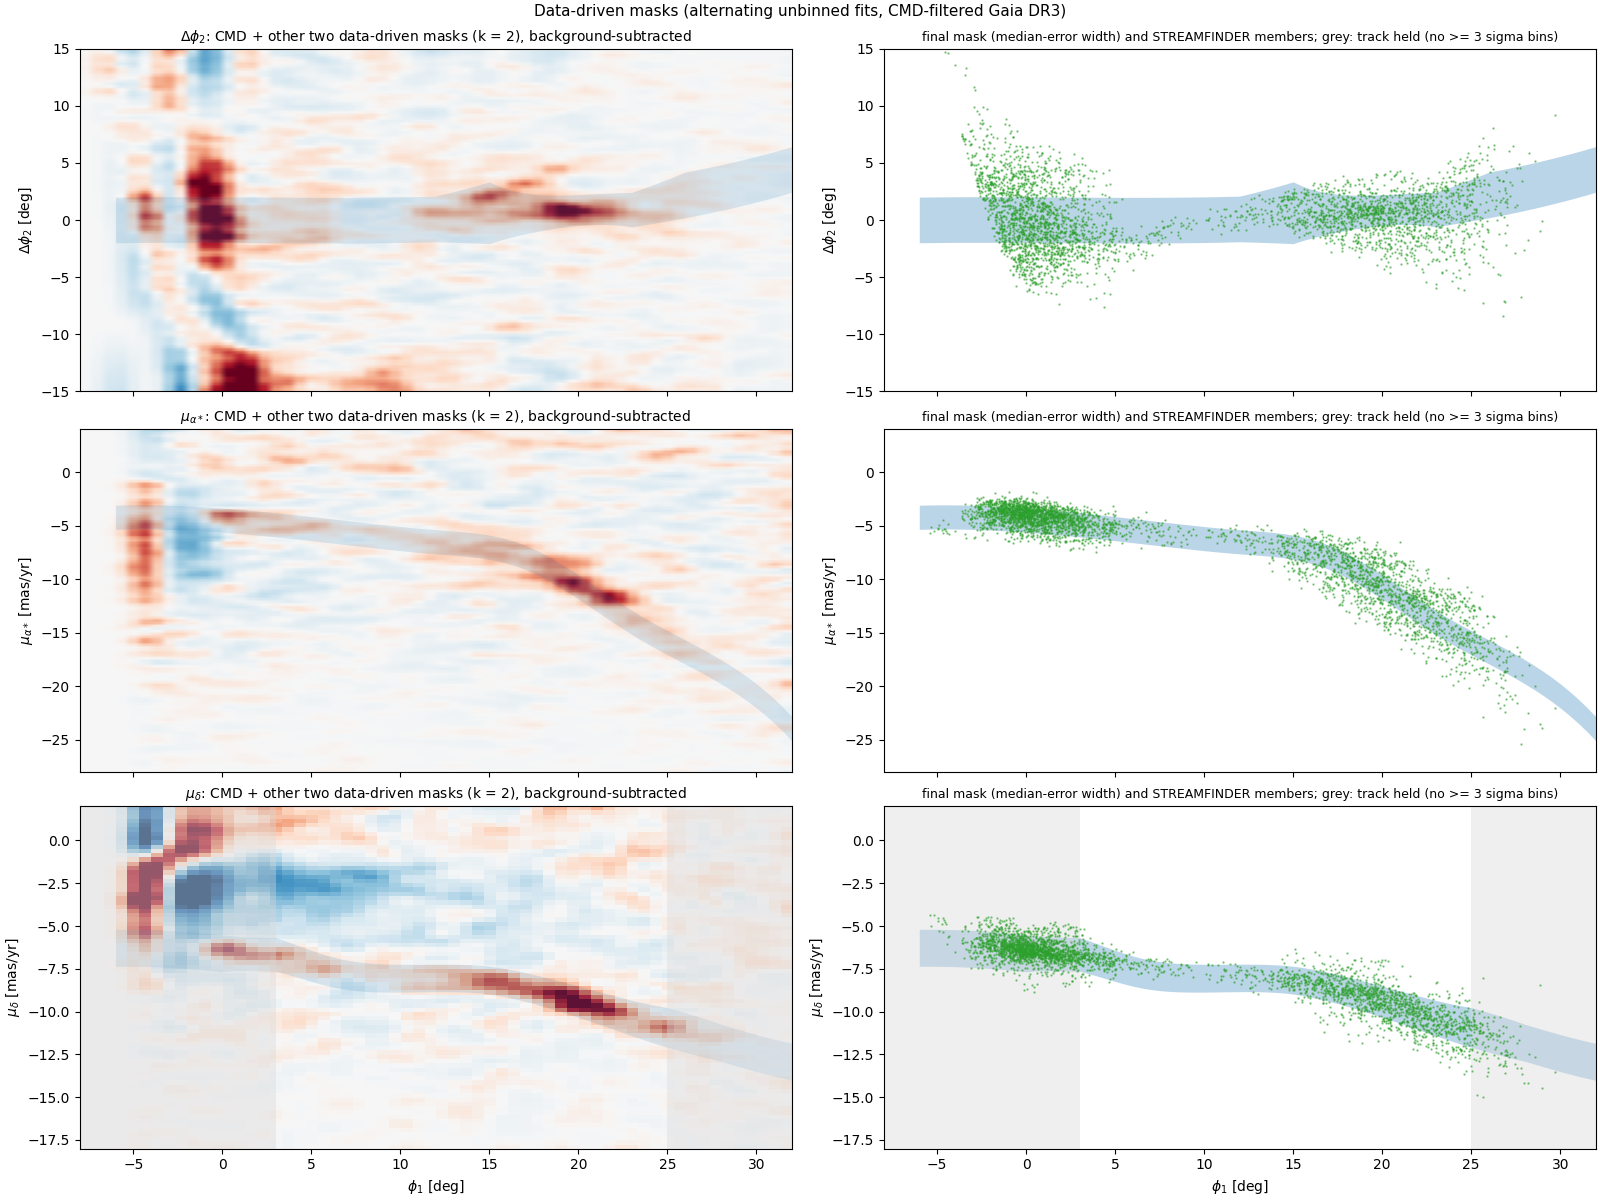
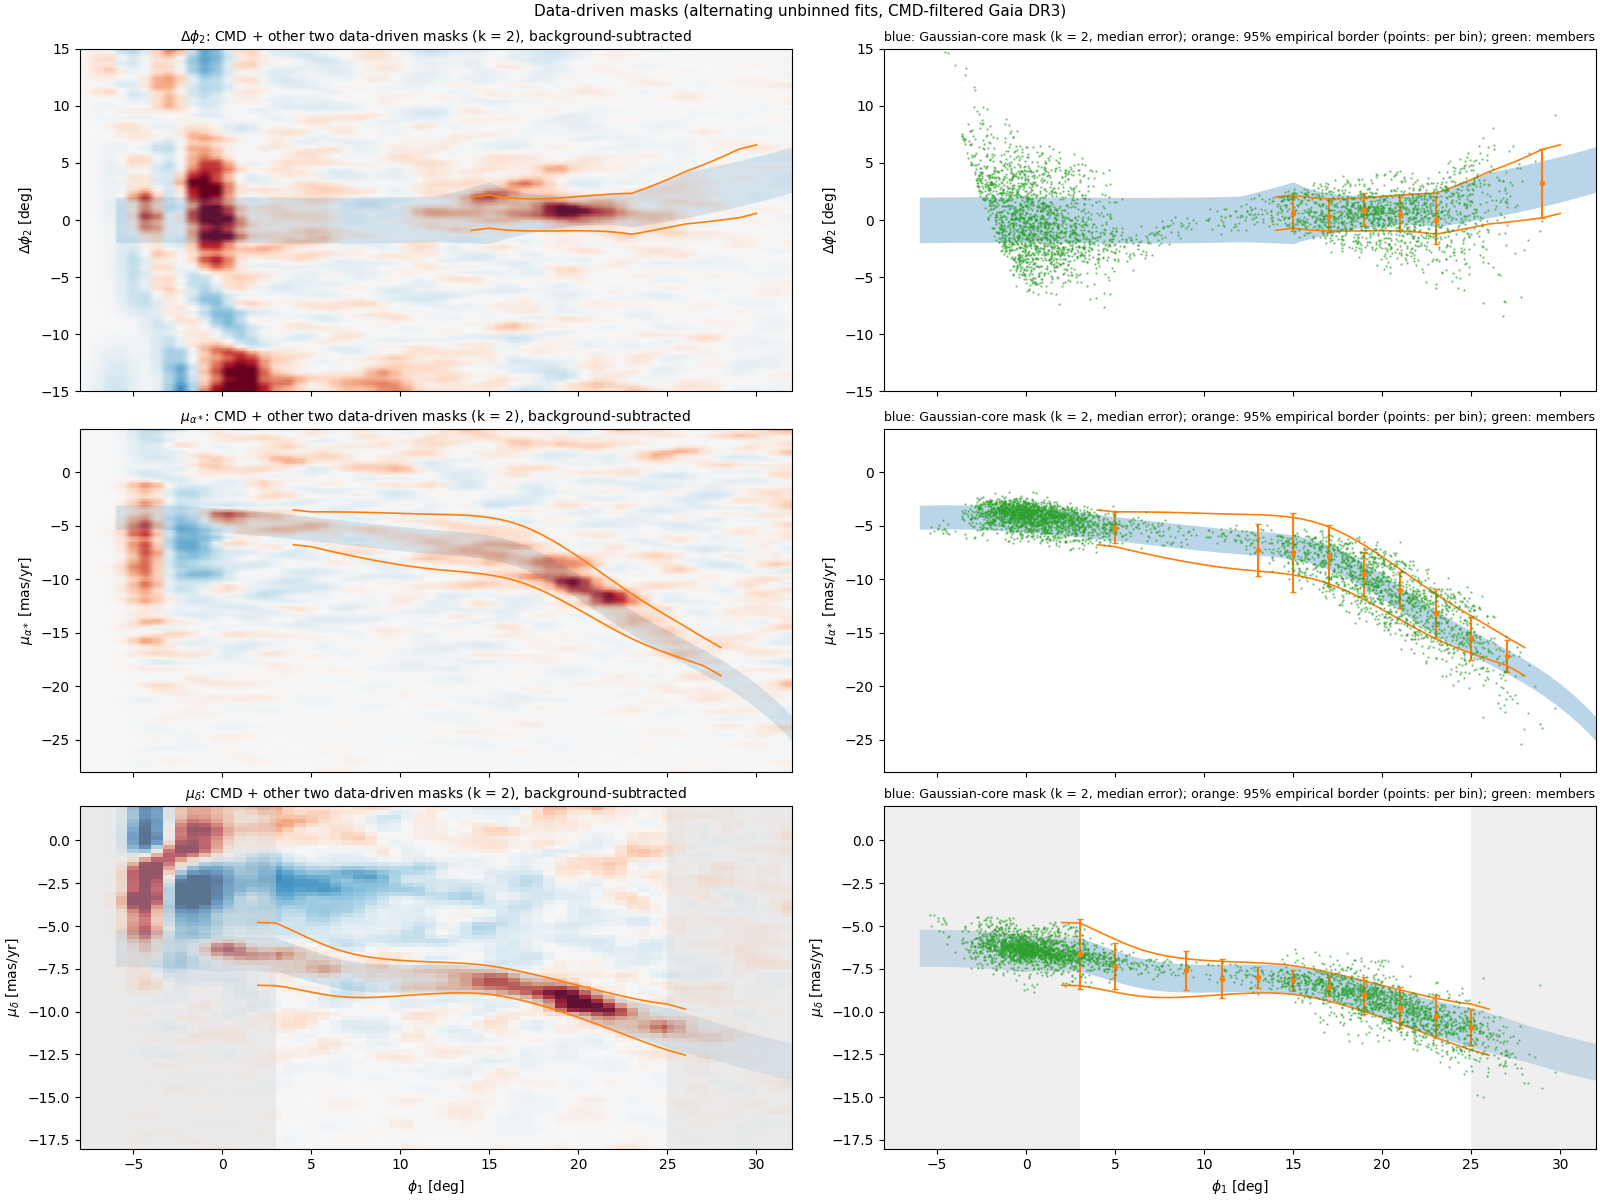
stream_masks.py: empirical 95% completeness borders (captured fraction of the unclipped background-subtracted excess about the fitted centre), smoothed in phi1

diff --git a/bin/streams/stream_masks.py b/bin/streams/stream_masks.py
@@ -17,6 +17,9 @@ Smoothing (accepted bins): centre offsets by a weighted least-squares cubic spli
 quadratic in phi1 over the significant range (previous width kept outside). A GCV smoothing spline under-smoothed (oscillating widths). 4 iterations or until
 all centres move by < 0.1 of their errors.
 Initial tracks: the user-marked sequences (gaia_xsel_marked.MARK); initial widths 0.5 mas/yr, 1 deg.
+Empirical (completeness) borders: after convergence, per bin the central interval holding 95 per cent of the background-subtracted
+excess in a wide window (completeness_borders), smoothed by weighted quadratics in phi1 (bins >= 4 sigma); drawn in orange and stored
+as lo95 / hi95 offsets from the track (the Gaussian core underestimates the borders where the stream has wings).
 Outputs: results/plot_data/stream_masks.json (tracks and widths on a phi1 grid, per-bin fit tables, iteration history),
 plots/stream_masks_fits.png (per-bin centres/widths with errors per iteration), plots/stream_masks_xsel.png (cross-selection with the
 final masks at k = 2, background-subtracted, with STREAMFINDER members in a separate column).
@@ -162,6 +165,43 @@ def smooth_logwidth(cs, logs, err, ok, old, deg=2):
     return f
 
 
+def completeness_borders(D, T, tu, TAB, frac=0.95):
+    """Empirical borders per 2-deg bin: background-subtracted residual distribution in a wide window (pmdec +-4, pmra +-6 mas/yr,
+    dphi2 +-8 deg), the same other-dimension selection as the fits (k_iter); background: PMs = off-sky stars scaled on the outer
+    wings (|v| > W - 2), sky = quadratic fit to 4 < |v| < 8 with the upper-branch window excluded. Border = central interval holding
+    `frac` of the excess: F(w) = excess within +-w of the fitted centre / excess within +-4 sigma_tot (no clipping, monotonised),
+w95 = first w with F >= frac (clipping the excess to positive values made noise look like wings). Sky: phi1 >= 14 only."""
+    u, x = D["phi1"], D["dphi2"]; out = {}; Wd = dict(pmdec=4., pmra=6., dphi2=8.)
+    for q in ("dphi2", "pmra", "pmdec"):
+        W = Wd[q]; E = np.linspace(-W, W, int(2*W/0.1)+1); cc = 0.5*(E[1:]+E[:-1]); rows = []
+        sel = other_masks(D, T, q, K_ITER) if q == "dphi2" else other_masks(D, {**T, "dphi2": dict(c=T["dphi2"]["c"], s=np.full(GRID.size, 1e6))}, q, K_ITER)
+        for a0, a1 in BINS:
+            c = 0.5*(a0+a1); kb = sel & (u >= a0) & (u < a1)
+            if q == "dphi2":
+                if c < 14:
+                    continue
+                v = x[kb]-ev(T, q, u[kb]); h = np.histogram(v, E)[0].astype(float)
+                vu = tu(np.array([c]))[0]-ev(T, q, np.array([c]))[0]; wing = (np.abs(cc) > 4) & ~(np.abs(cc-vu) < 2 if np.isfinite(vu) else False)
+                B = np.clip(np.polyval(np.polyfit(cc[wing], h[wing], 2), cc), 0, None)
+            else:
+                dsky = x-ev(T, "dphi2", u); on = kb & (np.abs(dsky) < K_ITER*ev(T, "dphi2", u, "s")); off = kb & (np.abs(dsky) > 4) & (np.abs(dsky) < 12) & ~(np.abs(x-tu(u)) < 2)
+                h = np.histogram((D[q]-ev(T, q, u))[on], E)[0].astype(float); hf = np.histogram((D[q]-ev(T, q, u))[off], E)[0].astype(float)
+                wing = np.abs(cc) > W-2; B = hf*h[wing].sum()/max(hf[wing].sum(), 1)
+            fit = [r for r in TAB[q] if abs(r["c"]-c) < 0.1]
+            if not fit:
+                continue
+            mu = fit[0]["mu"]; e_med = float(np.median(D[q+"_error"][kb])) if q != "dphi2" else 0.; st = np.hypot(fit[0]["s"], e_med)
+            Wm = min(max(4*st, 1.5), W-0.5); ex = h-B; d_ = np.abs(cc-mu); inW = d_ < Wm
+            N = ex[inW].sum(); sig = N/np.sqrt(max(B[inW].sum(), 1))
+            if N < 20 or sig < 3:
+                continue
+            ws = np.arange(0.1, Wm+1e-9, 0.05); F = np.array([ex[d_ < w_].sum() for w_ in ws])/N; F = np.maximum.accumulate(F)
+            w95 = float(ws[np.argmax(F >= frac)]) if (F >= frac).any() else float(Wm)
+            rows.append(dict(c=c, lo=float(mu-w95), mid=float(mu), hi=float(mu+w95), N=float(N), sig=float(sig), w95=w95, s_gauss=float(st)))
+        out[q] = rows
+    return out
+
+
 def main():
     D, T, up = load_data(); u, x = D["phi1"], D["dphi2"]
     print(f"{len(u)} stars in the CMD mask", flush=True)
@@ -204,7 +244,19 @@ def main():
         hist.append({q: dict(c=T[q]["c"].tolist(), s=T[q]["s"].tolist()) for q in T})
         if moved and max(moved) < 0.1:
             break
-    out = dict(grid=GRID.tolist(), tracks={q: dict(c=T[q]["c"].tolist(), s=T[q]["s"].tolist(), range=T[q]["range"]) for q in T},
+    CB = completeness_borders(D, T, tu, tables)
+    for q, rows in CB.items():
+        cs = np.array([r["c"] for r in rows]); sig = np.array([r["sig"] for r in rows]); okb = sig >= 4
+        mid = np.array([r["mid"] for r in rows]); lo = np.array([r["lo"] for r in rows]); hi = np.array([r["hi"] for r in rows])
+        T[q]["c_emp"], T[q]["lo_emp"], T[q]["hi_emp"] = T[q]["c"].copy(), np.full(GRID.size, np.nan), np.full(GRID.size, np.nan)
+        if okb.sum() >= 4:
+            pl = np.polyfit(cs[okb], lo[okb], 2, w=np.sqrt(sig[okb])); ph = np.polyfit(cs[okb], hi[okb], 2, w=np.sqrt(sig[okb]))
+            a_, b_ = cs[okb].min(), cs[okb].max(); g = np.clip(GRID, a_, b_)
+            T[q]["lo_emp"] = np.where((GRID >= a_-1) & (GRID <= b_+1), np.polyval(pl, g), np.nan); T[q]["hi_emp"] = np.where((GRID >= a_-1) & (GRID <= b_+1), np.polyval(ph, g), np.nan)
+        print(f"{q} 95% borders: " + " ".join(f"[{r['c']:.0f}: {r['lo']:+.2f}..{r['hi']:+.2f} N{r['N']:.0f} {r['sig']:.0f}s]" for r in rows), flush=True)
+    out = dict(grid=GRID.tolist(), tracks={q: dict(c=T[q]["c"].tolist(), s=T[q]["s"].tolist(), range=T[q]["range"],
+                                                  lo95=np.nan_to_num(T[q]["lo_emp"], nan=-99).tolist(), hi95=np.nan_to_num(T[q]["hi_emp"], nan=99).tolist()) for q in T},
+               borders95=CB,
                tables={q: [{k: float(v) for k, v in r.items()} for r in rows] for q, rows in tables.items()}, history=hist,
                k_iter=K_ITER, k_final=K_FINAL, note="mask: |q - c(phi1)| < k sqrt(s(phi1)^2 + e_i^2); outside 'range' the track is held at the end value")
     (ROOT/"results/plot_data/stream_masks.json").write_text(json.dumps(out, indent=1, default=float))
@@ -249,6 +301,11 @@ def main():
             a_.fill_between(ph, ev(T, q, ph)-K_FINAL*np.sqrt(ev(T, q, ph, "s")**2+wt**2), ev(T, q, ph)+K_FINAL*np.sqrt(ev(T, q, ph, "s")**2+wt**2),
                             color="C0", alpha=0.15 if a_ is ax[i, 0] else 0.3, lw=0)
             a_.set_ylabel(yl); a_.set_ylim(Ey[0], Ey[-1])
+        lo_e, hi_e = ev(T, q, ph)+T[q]["lo_emp"], ev(T, q, ph)+T[q]["hi_emp"]
+        for a_ in ax[i]:
+            a_.plot(ph, lo_e, "C1-", lw=1.2); a_.plot(ph, hi_e, "C1-", lw=1.2)
+        cbr = CB[q]; ax[i, 1].errorbar([r["c"] for r in cbr], [ev(T, q, np.array([r["c"]]))[0]+0.5*(r["lo"]+r["hi"]) for r in cbr],
+                                       yerr=[0.5*(r["hi"]-r["lo"]) for r in cbr], fmt="o", color="C1", ms=3, capsize=2)
         rows = tables[q]; ax[i, 1].errorbar([r["c"] for r in rows], [ev(T, q, np.array([r["c"]]))[0] for r in rows], fmt="none")
         ax[i, 1].plot(du, {"dphi2": dx, "pmra": d["pmra"], "pmdec": d["pmdec"]}[q], ".", color="C2", ms=1.5, alpha=0.5)
         rg = T[q]["range"]
@@ -256,7 +313,7 @@ def main():
             for a_ in ax[i]:
                 a_.axvspan(E1[0], rg[0], color="0.85", alpha=0.4, lw=0); a_.axvspan(rg[1], E1[-1], color="0.85", alpha=0.4, lw=0)
         ax[i, 0].set_title(f"{yl.split(' [')[0]}: CMD + other two data-driven masks (k = {K_FINAL:g}), background-subtracted", fontsize=10)
-        ax[i, 1].set_title("final mask (median-error width) and STREAMFINDER members; grey: track held (no >= 3 sigma bins)", fontsize=9)
+        ax[i, 1].set_title("blue: Gaussian-core mask (k = 2, median error); orange: 95% empirical border (points: per bin); green: members", fontsize=9)
     for a_ in ax[-1]:
         a_.set_xlabel(r"$\phi_1$ [deg]")
     fig.suptitle("Data-driven masks (alternating unbinned fits, CMD-filtered Gaia DR3)", fontsize=11)
